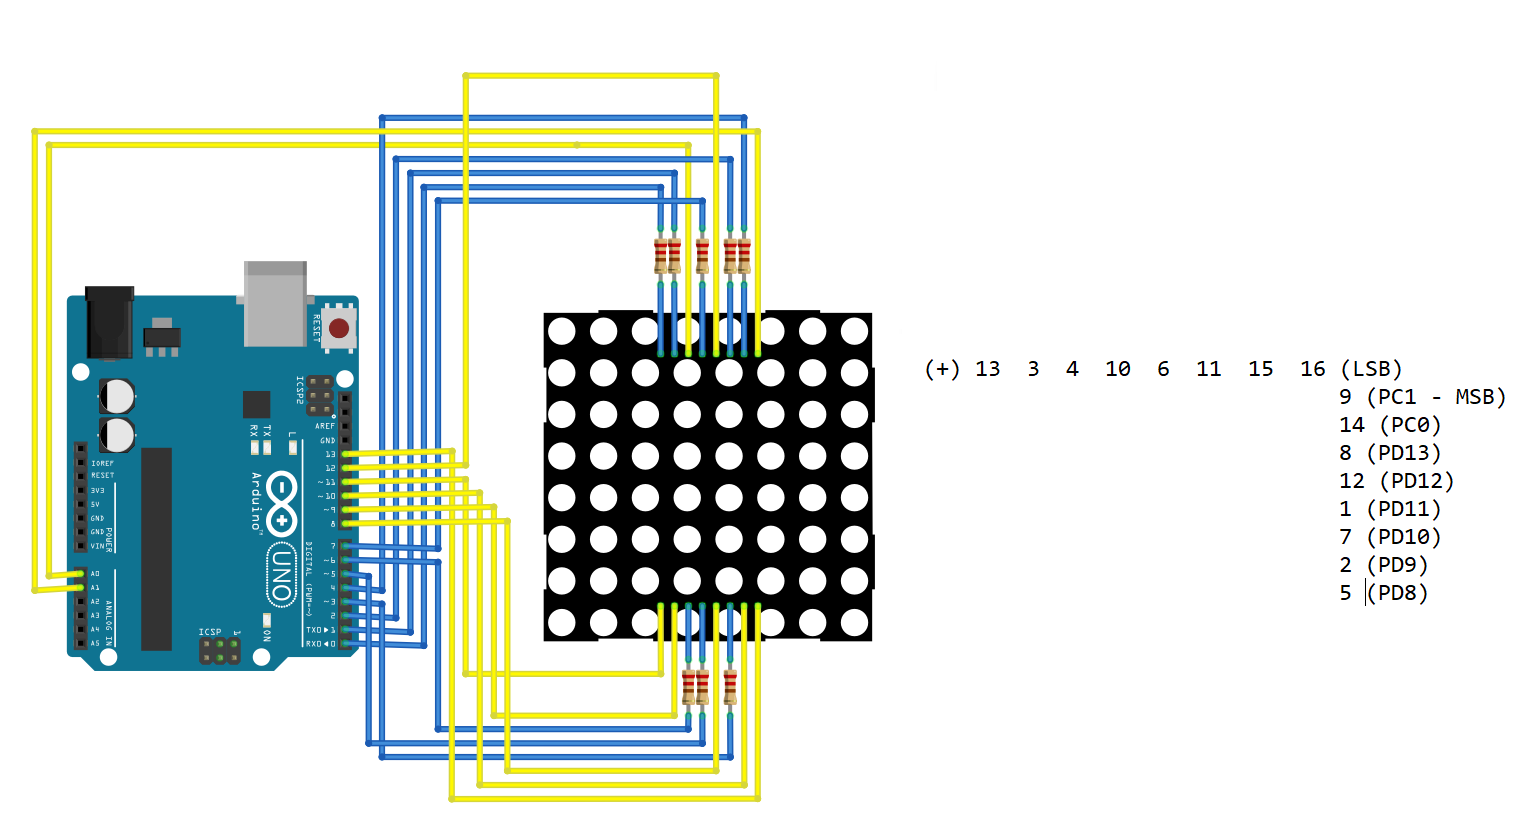
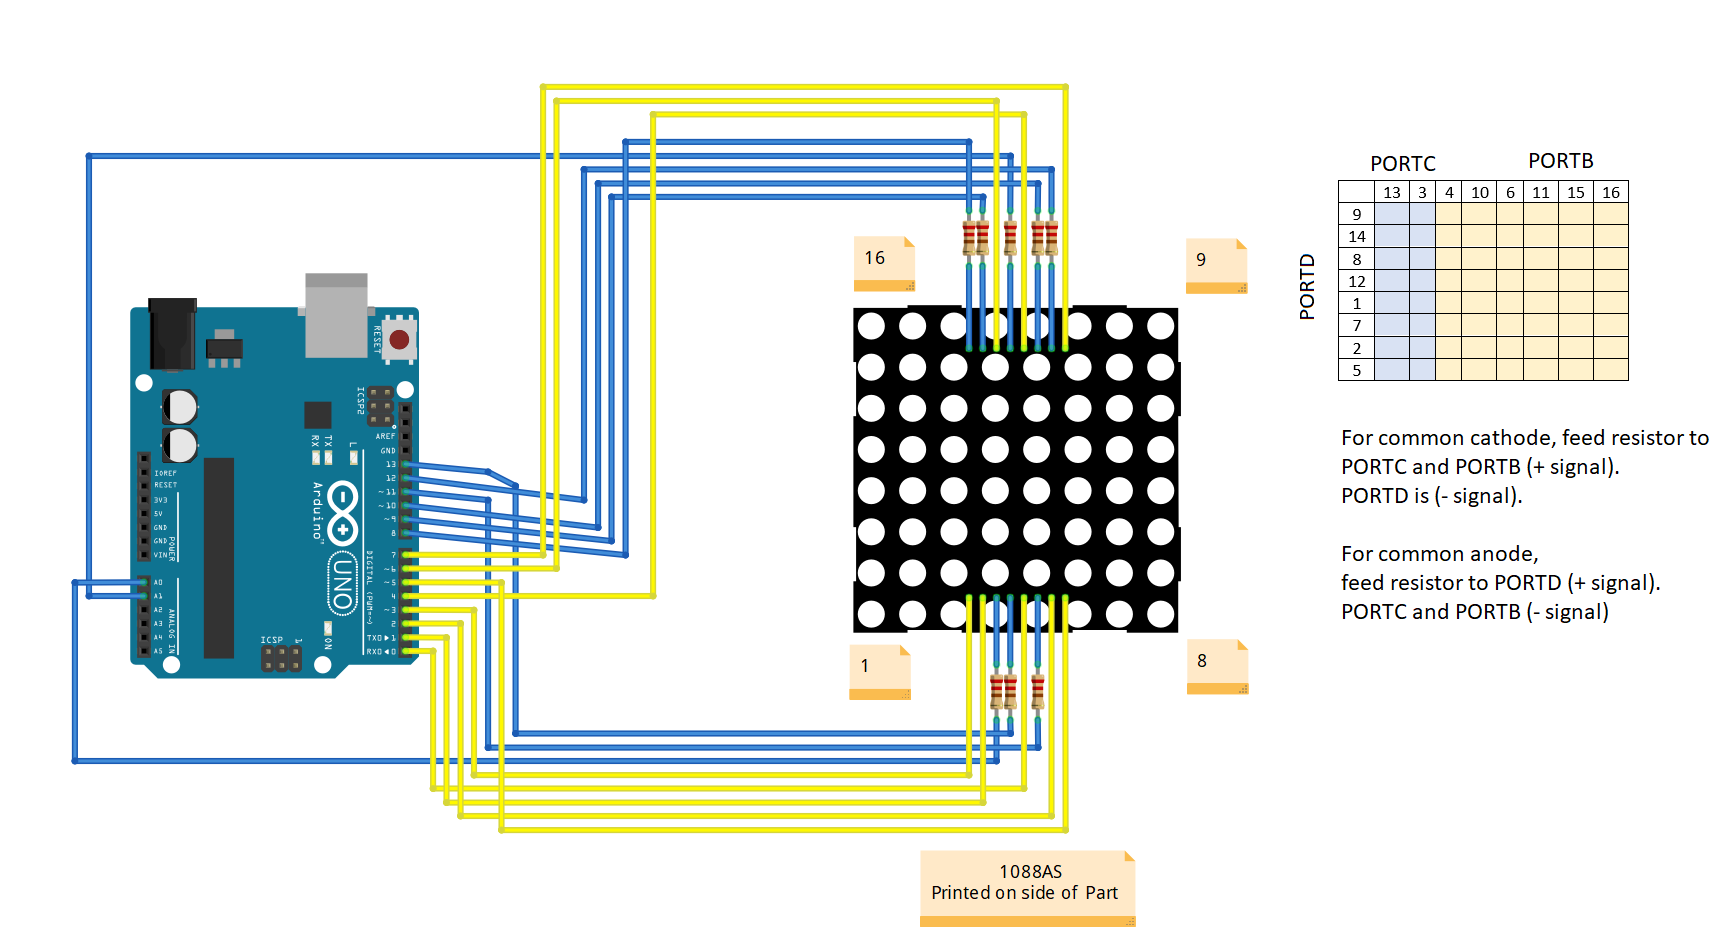
updated dot matrix
updated code with scan matrix for individual control and happy with the wiring.

diff --git a/8 - Dot Matrix Display/main.cpp b/8 - Dot Matrix Display/main.cpp
@@ -3,7 +3,10 @@
  *
  * Created: 7/5/2023 9:01:04 PM
  * This method requires understanding and schematic of the DOT MATRIX. BASED ON 1088AS.
- * Not perfect but for time sake, will revist latter. 
+ * Uses the 8x8 Common Cathode pin out. Pin 16 and Pin 1 with multimeter will light up using continuity from DMM. If 16 is + and 1 is GND (Common Cathode), if opposite (Common Anode)
+ * See pin out from source: http://acoptex.com/uploads/BxCommonanode.jpg
+ * Modified: 7/18/2023 
+ * Swap Row and Column Wiring, Removed 1, 2 example function and added scan_matrix. 
  * Author : B550-E
  */ 
 #ifndef F_CPU
@@ -19,76 +22,67 @@
 
 void off()
 {
-	PORTD = 0xFF;
-	PORTB = 0xFF;
-	PORTC = 0xFF;
+	PORTD = 0x00;
+	PORTB = 0x00;
+	PORTC = 0x00;
 	_delay_ms(delay);
 }
 
 void on()
 {
-	PORTD = 0xFF;
-	PORTB = 0x00;
-	PORTC = 0x00;
-	_delay_ms(delay);
-}
-void one()
-{
-	PORTD = 0x18;
-	PORTB = 0x00;
-	PORTC = 0x00;
+	PORTD = 0x00;
+	PORTB = 0xFF;
+	PORTC = 0xFF;
 	_delay_ms(delay);
 }
 
-void two()
+void scan_matrix()
 {
-	PORTD = 0xFF;
-	PORTC = ~0x00;
-	PORTB = ~0x03;
-	_delay_ms(scan);
-	PORTD = 0x70;
-	PORTC = ~0x00;	
-	PORTB = ~0x04;
-	_delay_ms(scan);
-	PORTD = 0x38;
-	PORTC = ~0x00;
-	PORTB = ~0x08;
-	_delay_ms(scan);	
-	PORTD = 0x1C;
-	PORTC = ~0x00;
-	PORTB = ~0x10;
-	_delay_ms(scan);
-	PORTD = 0x0E;
-	PORTC = ~0x00;
-	PORTB = ~0x20;
-	_delay_ms(scan);
-	PORTD = 0xFF;
-	PORTC = ~0x01;
-	PORTB = ~0x00;
-	_delay_ms(scan);
-	PORTD = 0xFE;
-	PORTC = ~0x02;
-	PORTB = ~0x00;
-	_delay_ms(scan);				
-}	
+	PORTB = 0x01;
+	PORTC = 0x00;
+	unsigned char row[8] = {0xFE, 0xFD, 0xFB, 0xF7, 0xEF, 0xDF, 0xBF, 0x7F};
+	unsigned char col2[2] = {0x01, 0x02};
+	unsigned char col1[6] = {0x01, 0x02, 0x04, 0x08, 0x10, 0x20};
+	for(unsigned char i = 0; i < 6; i++)	// Column
+	{
+		PORTB = col1[i];
+		_delay_ms(50);
+		for(unsigned char l = 0; l < 8; l++)
+		{
+			PORTD = row[l];
+			_delay_ms(interval/2);
+		}
+	}
+	PORTB = 0x00;
+	_delay_ms(50);
+	for(unsigned char j = 0; j < 2; j++)
+	{
+		PORTC = col2[j];
+		_delay_ms(50);
+		for(unsigned char l = 0; l < 8; l++)
+		{
+			PORTD = row[l];
+			_delay_ms(interval/2);
+		}
+	}
+}
 
 int main(void)
-{
-	DDRD = 0xFF;	// COLUMN D0 - D7
-	DDRB = 0x3F;	// ROW B0 - B5 
-	DDRC = 0x03;	// ROW C0 & C1
-	
+{ 
+	// Set Pin Direction as Input or Output
+	DDRD = 0xFF;	// ROW D0 - D7
+	DDRB = 0x3F;	// COLUMN B0 - B5 
+	DDRC = 0x03;	// COLUMN C0 & C1
 	_delay_ms(delay);
+	
     while (1) 
     {
 		off();
 		_delay_ms(interval);
 		on();
 		_delay_ms(interval);
-		one();
+		scan_matrix();
 		_delay_ms(interval);
-		two();
-		_delay_ms(100);
     }
 }
 
